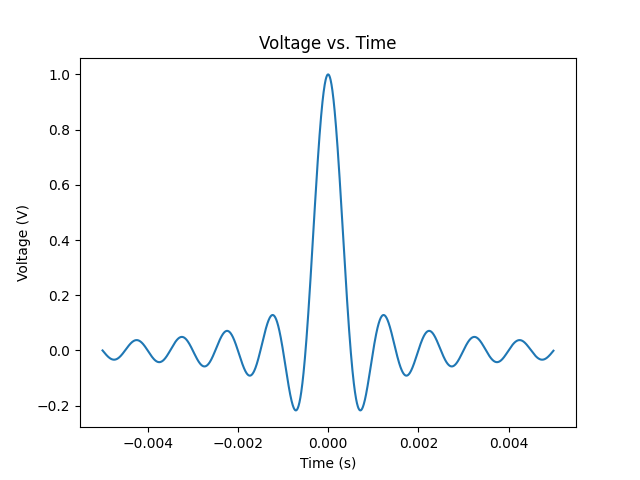
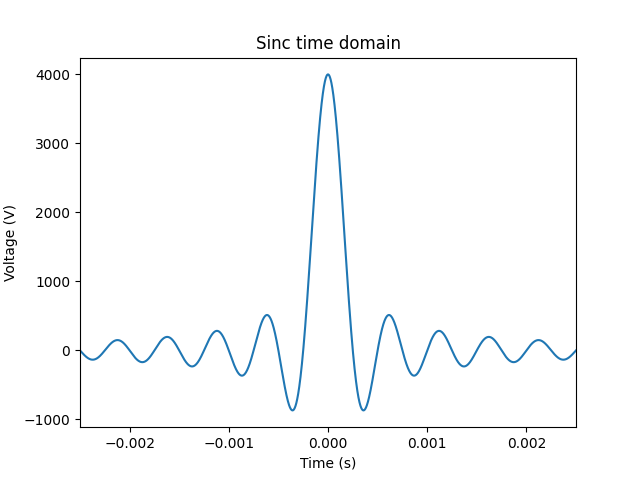
saving

diff --git a/filter_example.py b/filter_example.py
@@ -1,13 +1,37 @@
 import numpy as np
 import matplotlib.pyplot as plt
 
-def generate_sinc(sampling_frequency, time_duration, center_frequency):
+
+def generate_wave(sampling_frequency, time_duration, wave_frequency, snr_dB):
+
+    time_step = 1 / sampling_frequency
+    time_range = np.arange(-time_duration/2, time_duration/2, time_step)
+    sampled_wave = np.sin(2 * np.pi * wave_frequency * time_range)
+    sampled_wave = add_noise(sampled_wave, snr_dB)
+
+    return (time_range, sampled_wave)
+
+
+def add_noise(signal, snr_dB):
+
+    snr = 10 ** (snr_dB / 10)
+    noise = np.random.randn(len(signal))
+    sum_signal_squared = np.sum(signal ** 2)
+    sum_noise_squared = np.sum(noise ** 2)
+    alpha = np.sqrt(sum_signal_squared / (snr * sum_noise_squared)) #alpha amplifies noise to meet SNR requirement
+    signal_with_noise = signal + alpha * noise
+
+    return signal_with_noise
+
+
+def generate_sinc(sampling_frequency, time_duration, cutoff_frequency):
 
     time_step = 1 / sampling_frequency
     time_range = np.arange(-time_duration / 2, time_duration / 2, time_step)
-    sampled_wave = np.sinc(2 * center_frequency * time_range)
+    sampled_wave = 2*cutoff_frequency*np.sinc(2 * cutoff_frequency * time_range)
 
     return (time_range, sampled_wave)
+
 
 def calculate_fft(sampled_wave, sampling_frequency, fft_size):
 
@@ -21,26 +45,46 @@ def calculate_fft(sampled_wave, sampling_frequency, fft_size):
 
     return (fft_values, frequencies_to_plot)
 
+
 #Inputs
-sampling_frequency = 200000 #Hz
+sampling_frequency = 2000000 #Hz
 time_duration = .01 #s
 center_frequency = 1000 #Hz
-fft_size = 20000
+cutoff_frequency = 2000 #Hz
+snr_dB = 20 #dB
+fft_size = 200000
 
-(time_range, sampled_wave) = generate_sinc(sampling_frequency, time_duration, center_frequency)
-(fft_values, frequencies_to_plot) = calculate_fft(sampled_wave, sampling_frequency, fft_size)
+(time_range, sampled_wave) = generate_wave(sampling_frequency, time_duration, center_frequency, snr_dB)
+(time_range, sampled_sinc) = generate_sinc(sampling_frequency, time_duration, cutoff_frequency)
+(sine_wave_fft, frequencies_to_plot_1) = calculate_fft(sampled_wave, sampling_frequency, fft_size)
+(sinc_fft, frequencies_to_plot_2) = calculate_fft(sampled_sinc, sampling_frequency, fft_size)
 
 plt.figure(0)
 plt.plot(time_range, sampled_wave)
 plt.xlabel("Time (s)")
 plt.ylabel("Voltage (V)")
-plt.title("Voltage vs. Time")
-plt.savefig("sinc_time_domain.png")
+plt.title("Sine wave with noise")
+plt.xlim(-time_duration/4, time_duration/4)
+plt.savefig("sine_wave_with_noise.png")
 
 plt.figure(1)
-plt.plot(frequencies_to_plot, fft_values)
+plt.plot(time_range, sampled_sinc)
+plt.xlabel("Time (s)")
+plt.ylabel("Voltage (V)")
+plt.title("Sinc time domain")
+plt.xlim(-time_duration/4, time_duration/4)
+plt.savefig("sinc_time_domain.png")
+
+plt.figure(2)
+plt.plot(frequencies_to_plot_1, sine_wave_fft)
 plt.xlabel("Frequency (Hz)")
-plt.ylabel("Amplitude (V)")
-plt.title("Voltage vs Frequency")
-plt.xlim(-2*center_frequency,2*center_frequency)
-plt.savefig("sinc_freq_domain.png")
+plt.title("FFT sine wave with noise")
+plt.xlim(-3*cutoff_frequency,3*cutoff_frequency)
+plt.savefig("fft_sine_wave_with_noise.png")
+
+plt.figure(3)
+plt.plot(frequencies_to_plot_2, sinc_fft)
+plt.xlabel("Frequency (Hz)")
+plt.title("FFT sinc")
+plt.xlim(-3*cutoff_frequency,3*cutoff_frequency)
+plt.savefig("fft_sinc.png")
